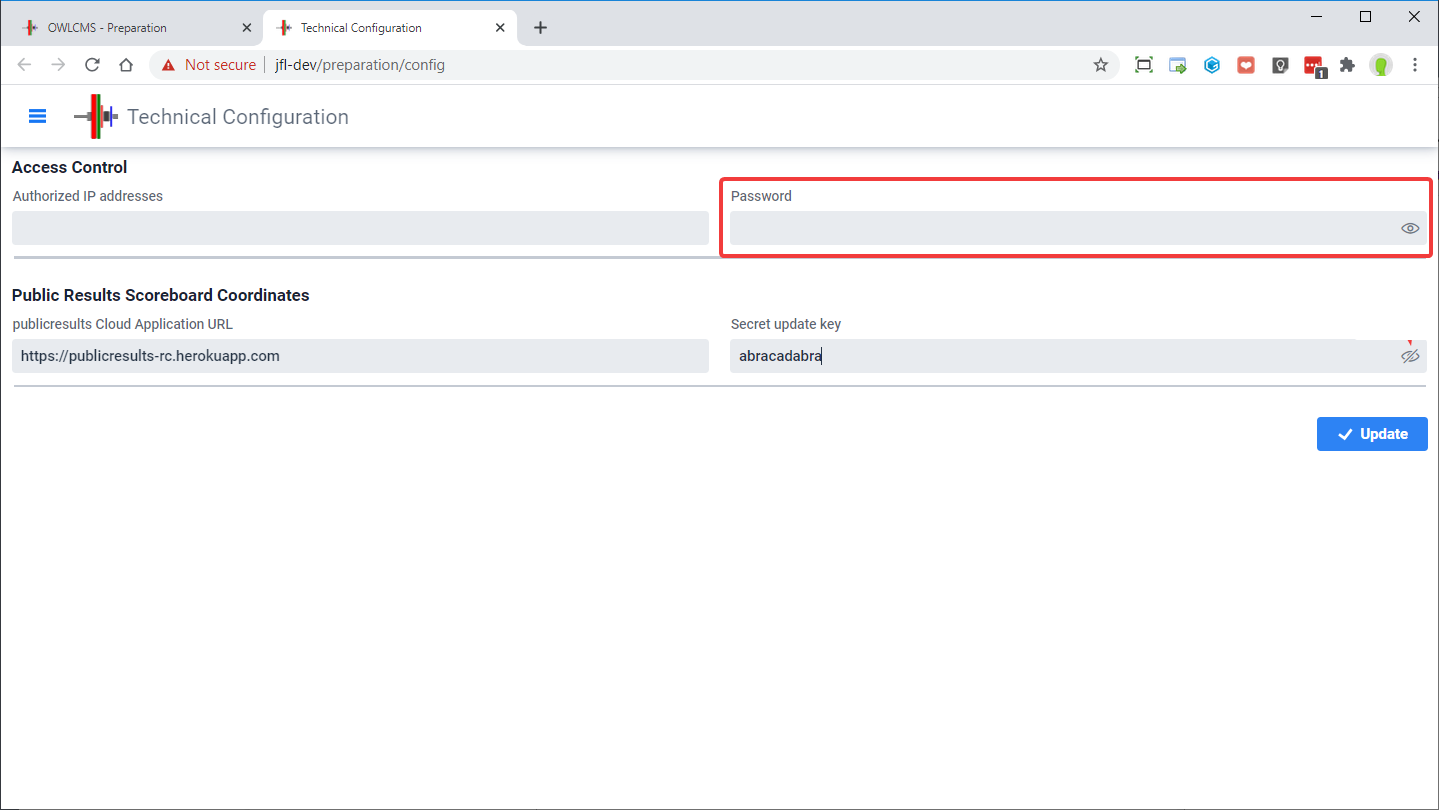
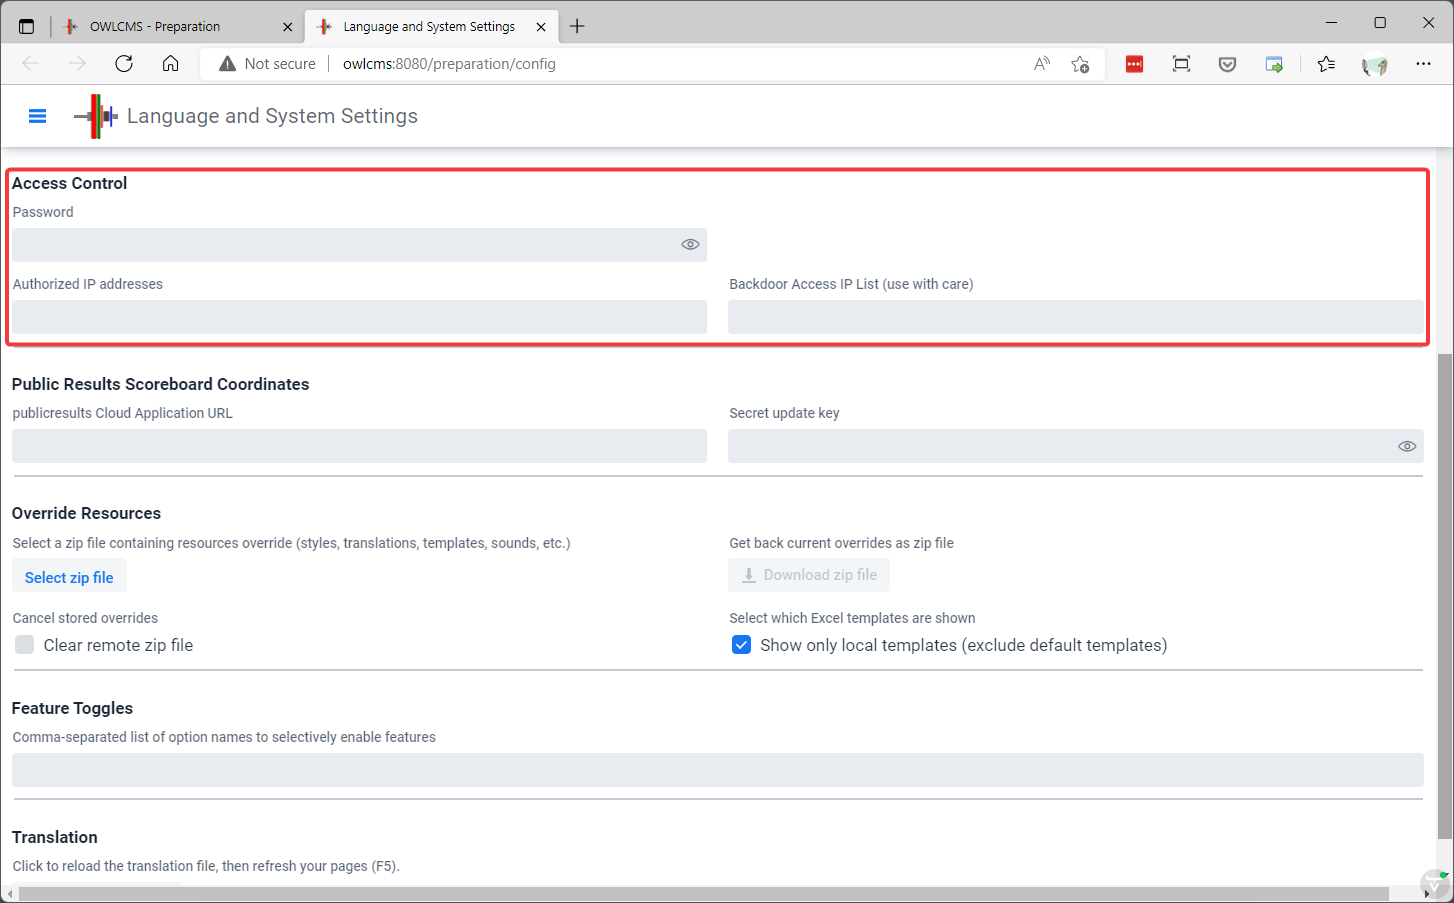
updated documentation. added local templates only officially

diff --git a/owlcms/src/main/java/app/owlcms/ui/preparation/ConfigEditingFormFactory.java b/owlcms/src/main/java/app/owlcms/ui/preparation/ConfigEditingFormFactory.java
@@ -280,6 +280,12 @@ public class ConfigEditingFormFactory
         layout.addFormItem(clearField, Translator.translate("Config.ClearZipLabel"));
         binder.forField(clearField)
                 .bind(Config::isClearZip, Config::setClearZip);
+        
+        Checkbox localTemplatesField = new Checkbox(Translator.translate("Config.LocalTemplate"));
+        localTemplatesField.setWidthFull();
+        layout.addFormItem(localTemplatesField, Translator.translate("Config.LocalTemplateLabel"));
+        binder.forField(localTemplatesField)
+                .bind(Config::isLocalTemplatesOnly, Config::setLocalTemplatesOnly);
 
 //        Checkbox ignoreCaching = new Checkbox(Translator.translate("Config.NoCaching"));
 //        ignoreCaching.setWidthFull();

diff --git a/owlcms/src/main/java/app/owlcms/data/config/Config.java b/owlcms/src/main/java/app/owlcms/data/config/Config.java
@@ -119,6 +119,13 @@ public class Config {
 
     private String featureSwitches;
 
+    @Column(columnDefinition = "boolean default false")
+    private boolean localTemplatesOnly;
+
+    public void setLocalTemplatesOnly(boolean localTemplatesOnly) {
+        this.localTemplatesOnly = localTemplatesOnly;
+    }
+
     public String computeSalt() {
         this.setSalt(null);
         return Integer.toHexString(new Random(System.currentTimeMillis()).nextInt());
@@ -482,7 +489,7 @@ public class Config {
     }
 
     public boolean isLocalTemplatesOnly() {
-        return featureSwitch("localTemplatesOnly", true);
+        return this.localTemplatesOnly || featureSwitch("localTemplatesOnly", true);
     }
 
 }

diff --git a/docs/Preparation.md b/docs/Preparation.md
@@ -8,20 +8,35 @@ To prepare for a competition, select the `Prepare Competition` menu entry from t
 
 ## Competition Information
 
-The `Edit Competition Information` button leads to a page where the information used on the various competition documents is defined.  It also allows options to be set that define the competition behavior.
+The `Edit Competition Information` button leads to a page where the name and other data about the competition is provided in order to use it on the various competition documents
+
+![030_Competition](img/Preparation/030_Competition.png) 
+
+#### Standard Competition Rules
+
+The screen also allows selecting common variations on IWF rules.
+
+![031_options](img/Preparation/031_options.png)
 
 - The `Apply initial total weight rule` determines whether the 20kg rule (15/10 for Masters) will be enforced.  Some local or regional meets do not enforce this rule.
 - The `Use Birth Year Only` allows the use of only the 4-digit birth year for athletes, instead of a full date as required by IWF.
+- The Masters switch is used when running a Masters-only competition, and is not required for competitions that have both Masters and non-Masters groups.
 
-![030_Competition](img/Preparation/030_Competition.png)
+  - The Masters settings changes the sorting order for displays and weigh-ins -- Masters traditionally start with the older lifters, whereas in an age-group competition the younger age groups are typically listed and weighed-in first.
+  - Note that the determination to apply the IWF 20kg or the IWF Masters 80% rule is automatic, based on whether the athlete is registered in a regular or Masters category.
+- `Medals for snatch, clean & jerk, total` This setting controls whether there will be ranks and points awarded for the lifts, or only for the total.  It changes whether the corresponding columns are shown or not on the scoreboards
+- `Referee Decision Reminder Delay` When using phones/tablets to referee, or MQTT devices that can provide feedback to the referee, this determines the delay before sending a reminder.
 
-## Masters
+#### Non-Standard Rules
 
-This setting is normally used when running a Masters-only competition, and is not required for competitions that have both Masters and non-Masters groups.
+Additional options are used when running team, kid, or virtual competitions. 
 
-- The Masters settings changes the sorting order for displays and weigh-ins -- Masters traditionally start with the older lifters, whereas in an age-group competition the younger age groups are typically listed and weighed-in first.
-
-- The determination to apply the IWF 20kg or the IWF Masters 80% rule is individual, based on whether the athlete is registered in a regular or Masters category.  The "Masters" setting  does not affect this behavior.
+- `Top Resuts Team Sizes`  in some competitions, points are awarded as usual, but the lifters who scored more points are the ones included in the team total. For example, there may be 10 athletes on the Men's team, but the 5 better point scores from the team will be used.  The number is how many athletes to count.
+- `Round-Robin Order` In team leagues, it is common for all 1st lifts to be done before 2nd, and so on.
+- `Group Athletes by Gender`  When hosting kid competitions, it is sometimes simpler to use round-robin, and in addition, have girls go first to avoid changing bars.
+- `Fixed order for lifting` Some league competitions use round-robin play and also decide in advance the lifting order.  This setting means that the lot number assigned to the athlete decides the lifting order.
+- `Enable Custom Score` This adds a box on the Athlete Card where a custom score can be entered.  This will typically be the total + bonus points or minus penalty points.  This is sometimes used for kid competitions for 5/6 or 6/6 performances.
+- `Sinclair Meet` If this is selected, the program will behave as if there was a single male and a single female categories.  The scoreboards will show the Sinclair score, and the leader board will consider all the athletes of the same gender.
 
 
 ## Defining Age Groups and Categories

diff --git a/docs/Cloud.md b/docs/Cloud.md
@@ -43,20 +43,25 @@ Go to the `Prepare Competition`- `Language and System Settings` page.
 
 In a gym setting, people can read the web addresses on the screens, and one day, some "funny" person will log in to the system and be tempted to mess things up.
 
-- You should therefore set a PIN or Password that officials will be required to type when first logging in.  This is done on via the `Prepare Competition` page, using the `Language and System Settings` button.
+- **Password** : should therefore set a PIN or Password that officials will be required to type when first logging in.  This is done on via the `Prepare Competition` page, using the `Language and System Settings` button.
+  - Once you type a PIN or password, it will immediately be replaced by a very long string called a cryptographic hash.  That way if you export the database no one can actually figure out what the password is.
 
 ![053_editPIN](img/PublicResults/053_editPIN.png)
 
-- If running from a competition site, you can restrict access to the cloud application to come only from your competition site router. The access list is a comma-separated list of allowed IPv4 addresses.   In order to find the proper value:
+- **Authorized IP Addresses** running from a competition site, you can restrict access to the cloud application to come only from your competition site router. The access list is a comma-separated list of allowed IPv4 addresses.  The addresses listed will be allowed, but the password will still be required.
 
+  In order to find the proper value:
+  
   - From your competition site, browse to <https://google.com> and
   
-  - Type the string  `my ip`  in the search box.  
+- Type the string  `my ip`  in the search box.  
     This will display the address of your competition site router as seen from the cloud.  
-
+  
   - You should see a set of four numbers separated by dots like `24.157.203.247`  . This the address you should use -- owlcms will reject connections coming from other places than your competition router.
   
-Note that if you use the OWLCMS_IP or -Dip settings, these will take precedence over what is in the database.
+  Note that if you use the OWLCMS_IP or -Dip settings, these will take precedence over what is in the database.
+
+- **Backdoor Access IP List**  These IP addresses will be allowed access without a password.  This is normally used when streaming: the machine that connects to owlcms to grab the scoreboards is not in the cloud, and it is inconvenient to type the password for that one machine.
 
 ## Configuration Parameters
 

diff --git a/docs/UploadingLocalSettings.md b/docs/UploadingLocalSettings.md
@@ -14,6 +14,16 @@ If you want to customize the Excel templates, CSS style sheets, Age Group defini
 
 > Owlcms attempts to preserve your local files when you re-install a newer version.  It is always prudent, however to create a zip file with your setup, as a backup.  You can also use that zip file for cloud-based setups, as explained below.
 
+### Selecting Which Templates are Shown
+
+Note that you can actually remove template files from the local folder if you are not using them.  You can add your own, or change the names to use your local names. By default, owlcms will still show the default files (it has its own copy inside the binary files).  
+
+If you cleanup the local directory, you can tell owlcms to hide the default files using a checkbox, see below. When that is checked, owlcms ignores it's own copy. 
+
+Note that the best idea is to create a zip after your cleanup and renaming,  and to upload it to the database as explained below.  In this way, the zip in the database takes precedence over the local folder, and if an update puts back files in the `local` folder, they won't mess things up.
+
+![120_localtemplates](img/Preparation/120_localtemplates.png)
+
 ### Uploading to a cloud-based setup
 
 Cloud-based setups are created on demand, and do not include persistent local files.  The local customizations are stored inside the database as a zip file, and unzipped when the application starts (or a new zip is uploaded).
@@ -21,5 +31,11 @@ Cloud-based setups are created on demand, and do not include persistent local fi
 In order to use your customized files in a cloud setup, proceed as follows
 
 1. Create a zip file of the `local` folder
+
 2. Go to the Preparation > Language and System Settings section of the Cloud-based application
+
 3. Upload your zip.  You can re-upload the zip as needed, this will reset the remote local override files.
+
+4. > IMPORTANT: Make sure to use the Update button on the page -- otherwise the zip won't actually get stored.  Same thing if you use the "Clear" checkbox, it will only take effect when the Update button is used.
+
+![115_localoverride](img/Preparation/115_localoverride.png)

diff --git a/src/main/markdown/ReleaseNotes.md b/src/main/markdown/ReleaseNotes.md
@@ -1,7 +1,9 @@
 > Recommended update if your current version is older than 4.33.4
 
-- 4.37.8-rc01: fixed uploading of zip file containing local overrides to support zips with non-Latin file names (replaced the standard Java library with an improved one)
-- 4.37.8-rc01: added a Feature Toggle "localTemplatesOnly".  If this toggle is defined on the Languages and Settings page, the built-in templates will not be shown. Only what is in the local/templates folder (or has been uploaded as a zip) with be shown. You can therefore remove files you don't use and rename the templates to your local language if you wish.
+- 4.33.8-rc02: A new "local templates only" checkbox is added on the Languages and Settings page. If selected, the built-in Excel templates will not be listed in the dropdown lists. Only what is in the local/templates folder (or has been uploaded as a zip) with be shown. You can therefore remove files you don't use and rename the templates to your local language if you wish.  This feature is also available using the "localTemplatesOnly" feature toggle.
+- 4.33.8-rc02: added documentation for the Feature Toggles under Advanced Settings.  Updated the documentation for Competition Settings and for the Uploading Customization pages.
+- 4.33.8-rc02: Updated translations.
+- 4.33.8-rc01: fixed uploading of zip file containing local overrides to support zips with non-Latin file names (replaced the standard Java library with an improved one)
 - 4.33.7: fix processing of empty rows in record definition files. Added Examples for Masters and for different file formats to [Record Definition Examples](https://www.dropbox.com/sh/409fqybabjv6byt/AADZIcMxn2Q8epqiZQX3EQk4a?dl=0)
 - 4.33.6: fix missing decision reminder when using phone or tablet
 - 4.33.6: wait for the actual 1/2/3/all button press to inform announcer that referee has been summoned

diff --git a/docs/FeatureToggles.md b/docs/FeatureToggles.md
@@ -1,0 +1,13 @@
+Feature Switches (also known as Feature Toggles) are parameters that can be turned on or off to change the application behavior.  They are typically used when a feature is added, before it becomes clear how to control through the regular interface. To access the list, use to the Languages and System Settings button from the "Preparation" page and scroll down.
+
+![040_FeatureToggles](img/SystemSettings/040_FeatureToggles.png)
+
+
+
+Feature switches are not case sensitive.  Enter them separated by a comma if you need more than one.
+
+| Feature Switch     | Description                                                  | Normal Way to Activate                                       |
+| ------------------ | ------------------------------------------------------------ | ------------------------------------------------------------ |
+| localTemplatesOnly | If present, the default templates distributed inside the owlcms binary will not be shown.  Only the templates found in the local folder will be used.  If a .zip file is used to package the local folder and upload it to the program, then only these templates will be shown.<br />This is normally used to create a zip with only the files used in a given federation, potentially renamed in the local language. | This feature can only be activated using the feature switch. |
+| oldScoreboards     | Used to use the old scoreboard layouts, for people that have not switched to the new parameterized scoreboards introduced in version 4.31 | This feature can only be activated using the feature switch  |
+| sinclairMeets      | Treat the competition as if there is only a single weight category for men and one for women.  Use Sinclair to compute rankings and leaders | Use the checkbox on the Competition parameter page.          |

diff --git a/docs/SystemSettings.md b/docs/SystemSettings.md
@@ -28,7 +28,7 @@ Go to the `Prepare Competition`- `Language and System Settings` page.
 
 The installation directory on a laptop contains a folder called `local`.  Underneath that folder are all the files and resources used by the program.  You may edit these files if you need to change translation wording, scoreboard colors, the Excel templates, etc.   
 
-If you want to run the program in the cloud, you will need to perform the changes on a local laptop, and zip the local directory.  See the section on [Uploading Customizations](UploadingLocalSettings) for details.
+If you want to run the program in the cloud, you will need to perform the changes on a local laptop, and zip the local directory.  See the page on [Uploading Customizations](UploadingLocalSettings) for details.
 
 ### Access Control
 

diff --git a/docs/_navbar.md b/docs/_navbar.md
@@ -36,6 +36,7 @@
   * [Excel Template Variables](TemplateVariables)
   * [Translations](Translation)
   * [Configuration Parameters](Configuration)
+  * [Feature Toggles](FeatureToggles)
   * [Simulation and Load Testing](Simulation)
   * [MQTT Server Configuration](MQTT)
   * [Using PostgreSQL](PostgreSQL)

diff --git a/docs/_sidebar.md b/docs/_sidebar.md
@@ -35,6 +35,7 @@
   * [Excel Template Variables](TemplateVariables)
   * [Translations](Translation)
   * [Configuration Parameters](Configuration)
+  * [Feature Toggles](FeatureToggles)
   * [Simulation and Load Testing](Simulation)
   * [MQTT Server Configuration](MQTT)
   * [Using PostgreSQL](PostgreSQL)
